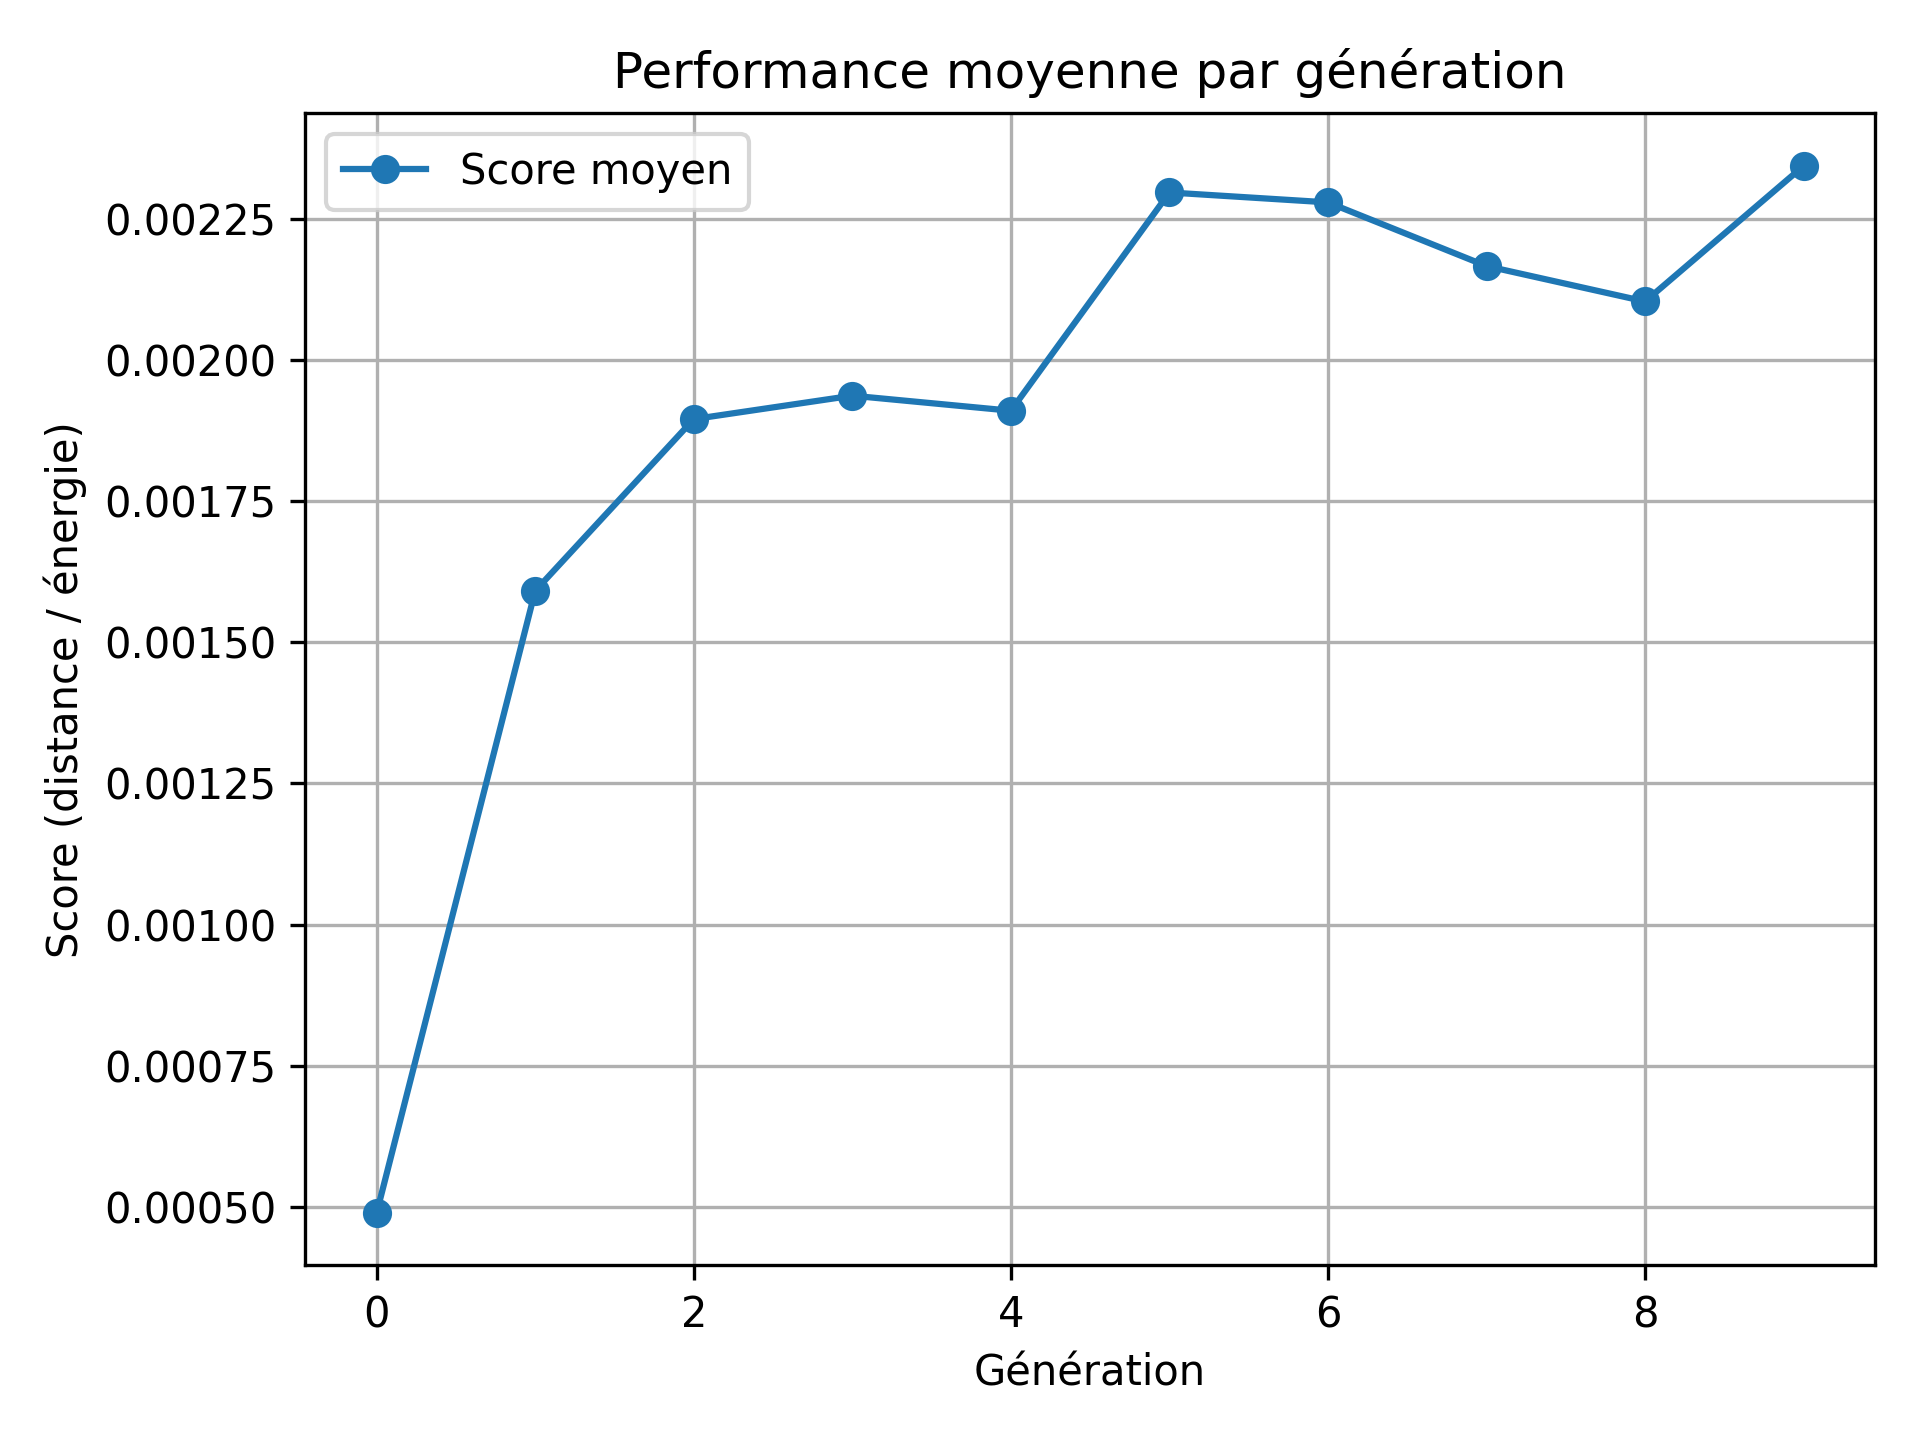
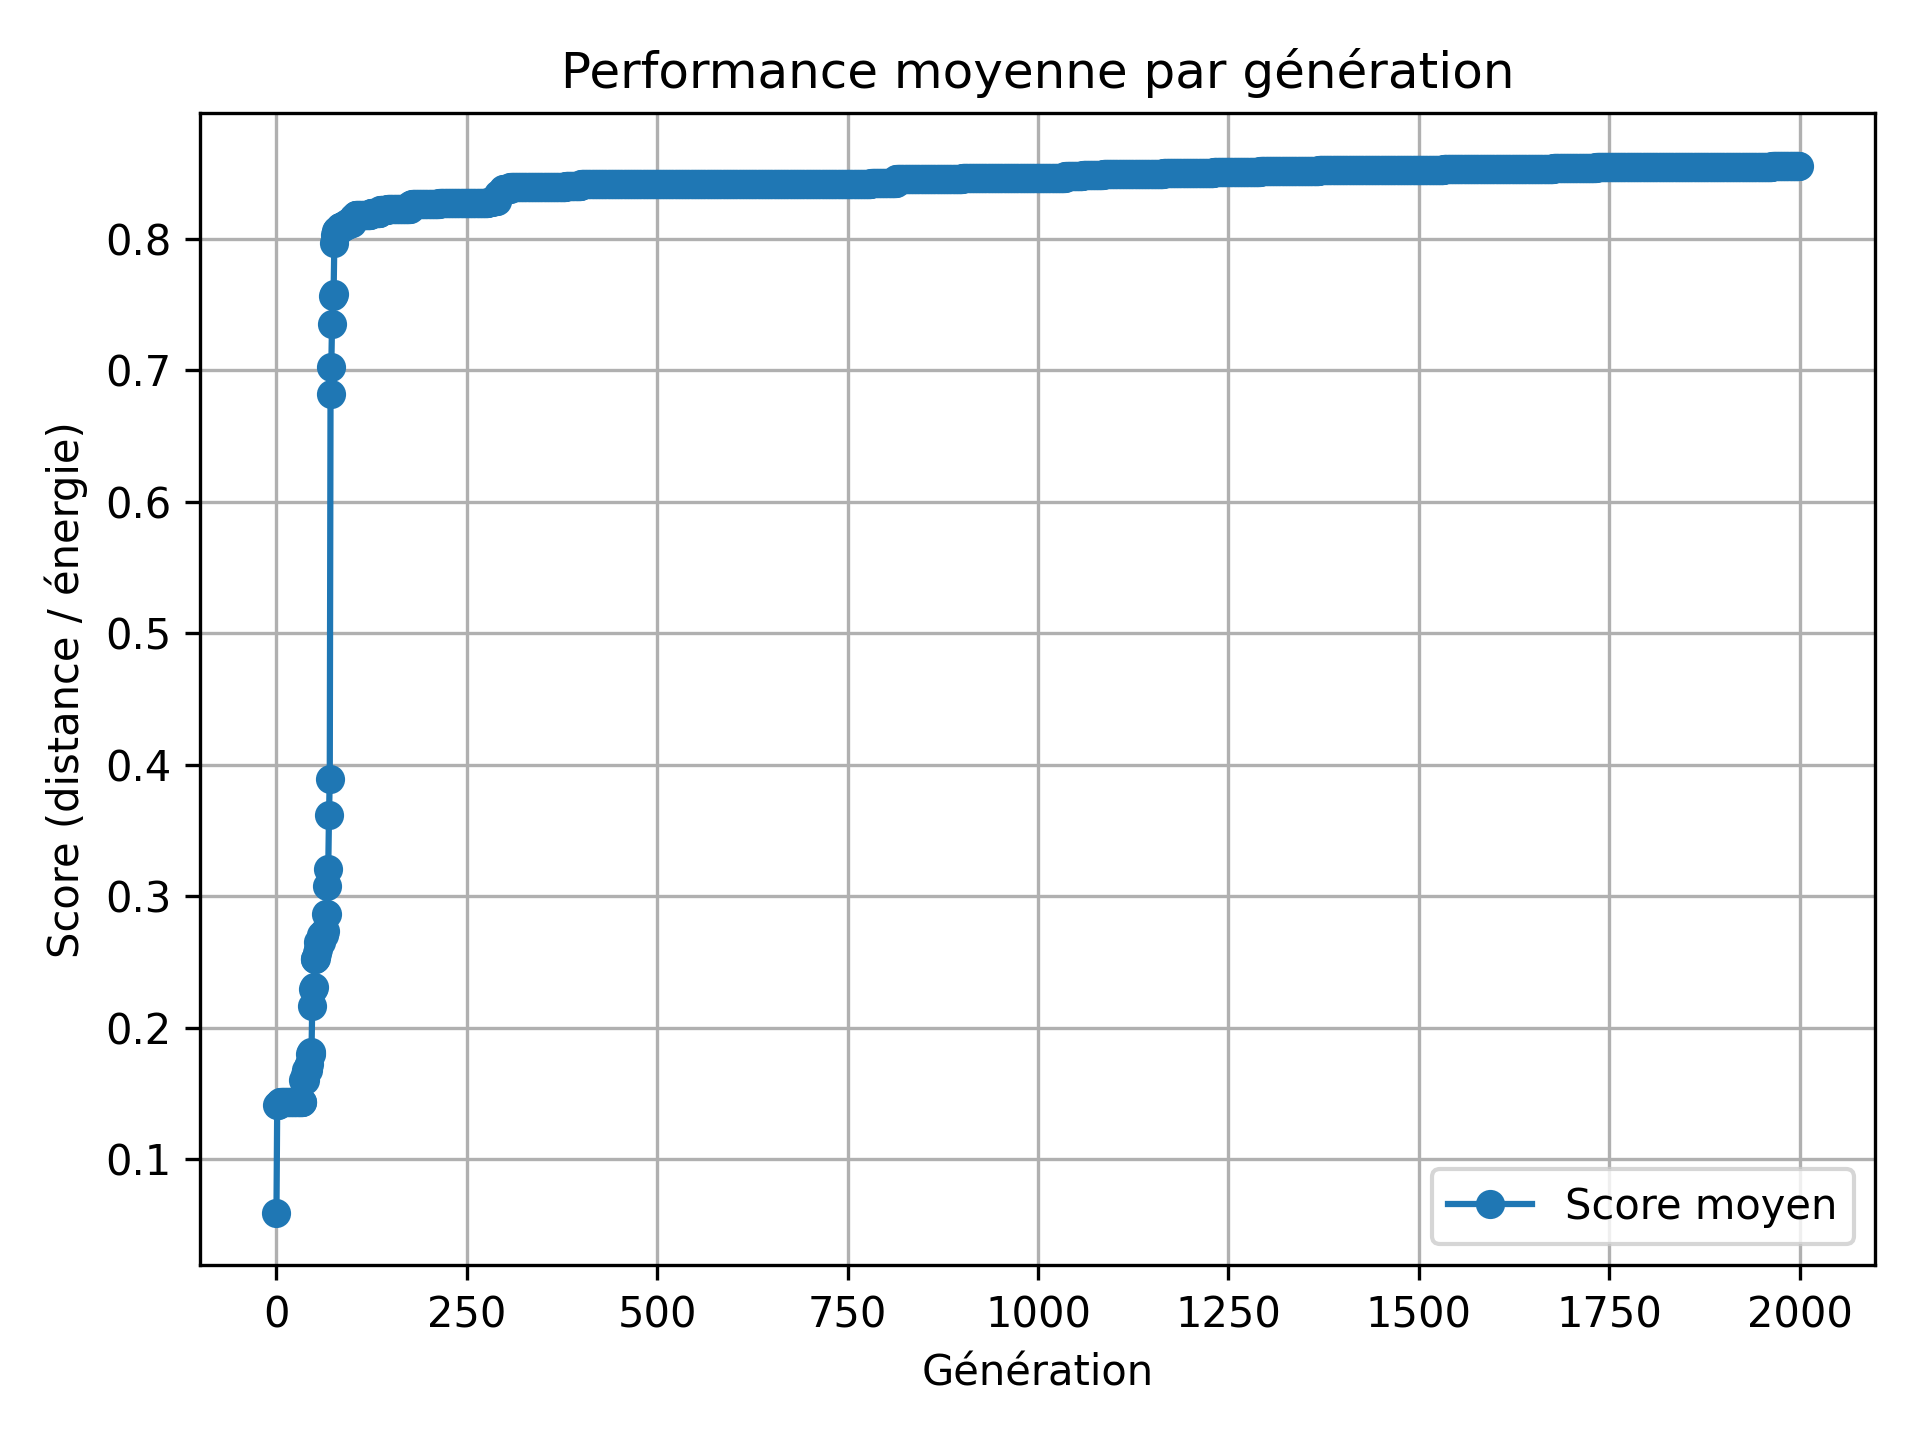
new genom

diff --git a/genome_utils.py b/genome_utils.py
@@ -37,14 +37,68 @@ def genome_to_creature(genome):
 
     return Creature(points, liens, muscles)
 
+import copy
+import random
+import numpy as np
+
 def mutate_genome(genome, mutation_strength=0.1):
     new_genome = copy.deepcopy(genome)
 
-    for m in new_genome["muscles"]:
-        # Mutation légère des fréquences, amplitudes, phases
-        m["freqs"] = [max(0.05, f + random.gauss(0, mutation_strength)) for f in m.get("freqs", [1.0])]
-        m["amps"] = [max(0.0, a + random.gauss(0, mutation_strength)) for a in m.get("amps", [1.0])]
-        m["phases"] = [(p + random.gauss(0, mutation_strength)) % (2 * np.pi) for p in m.get("phases", [0.0])]
-        m["intensite"] = max(0.1, m.get("intensite", 10.0) + random.gauss(0, mutation_strength * 5))
+    # === Mutation position points 0 et 2 (autour de p1) ===
+    if "points" in new_genome and len(new_genome["points"]) >= 3:
+        p1 = np.array(new_genome["points"][1])
+        l1 = np.linalg.norm(np.array(new_genome["points"][0]) - p1)
+        l2 = np.linalg.norm(np.array(new_genome["points"][2]) - p1)
+
+        theta0 = random.uniform(0, 2 * np.pi)
+        theta2 = random.uniform(0, 2 * np.pi)
+
+        new_genome["points"][0] = (p1 + l1 * np.array([np.cos(theta0), np.sin(theta0)])).tolist()
+        new_genome["points"][2] = (p1 + l2 * np.array([np.cos(theta2), np.sin(theta2)])).tolist()
+
+    # === Mutation des muscles (au plus UNE mutation par muscle) ===
+    for m in new_genome.get("muscles", []):
+        actions = []
+
+        if len(m.get("freqs", [])) > 0:
+            actions.append("mut_freq")
+        if len(m.get("amps", [])) > 0:
+            actions.append("mut_amp")
+        if len(m.get("phases", [])) > 0:
+            actions.append("mut_phase")
+        actions.append("mut_intensite")
+        if len(m.get("freqs", [])) > 1:
+            actions.append("remove")
+        if len(m.get("freqs", [])) < 6:
+            actions.append("add")
+
+        action = random.choice(actions)
+
+        if action == "mut_freq":
+            idx = random.randint(0, len(m["freqs"]) - 1)
+            m["freqs"][idx] = max(0.05, m["freqs"][idx] + random.gauss(0, mutation_strength))
+
+        elif action == "mut_amp":
+            idx = random.randint(0, len(m["amps"]) - 1)
+            m["amps"][idx] = max(0.0, m["amps"][idx] + random.gauss(0, mutation_strength))
+
+        elif action == "mut_phase":
+            idx = random.randint(0, len(m["phases"]) - 1)
+            m["phases"][idx] = (m["phases"][idx] + random.gauss(0, mutation_strength)) % (2 * np.pi)
+
+        elif action == "mut_intensite":
+            m["intensite"] = max(0.1, m.get("intensite", 10.0) + random.gauss(0, mutation_strength * 5))
+
+        elif action == "add":
+            m["freqs"].append(random.uniform(0.1, 2.0))
+            m["amps"].append(random.uniform(0.1, 2.0))
+            m["phases"].append(random.uniform(0, 2 * np.pi))
+
+        elif action == "remove":
+            idx = random.randint(0, len(m["freqs"]) - 1)
+            m["freqs"].pop(idx)
+            m["amps"].pop(idx)
+            m["phases"].pop(idx)
 
     return new_genome
+

diff --git a/evolution.py b/evolution.py
@@ -4,42 +4,31 @@ import copy
 
 def evolve_population(creatures, genomes, n_new, keep_fraction=0.1, mutation_strength=0.05, external_scores=None):
     """
-    Fait évoluer une population de génomes :
-    - sélectionne les meilleurs selon leur score
-    - garde certains parents inchangés
-    - génère des enfants par mutation
-
-    Args:
-        creatures: liste de créatures (non utilisé si external_scores est fourni)
-        genomes: liste de génomes
-        n_new: taille cible de la nouvelle population
-        keep_fraction: proportion de parents à garder
-        mutation_strength: intensité des mutations
-        external_scores: tableau de scores (si fourni)
-
-    Returns:
-        (nouvelle_liste_genomes, score_moyen)
+    Fait évoluer une population avec conservation stricte de certains individus :
+    - garde les meilleurs inchangés (élitisme)
+    - génère les autres via mutation
     """
+
     if external_scores is not None:
         scores = np.array(external_scores)
     else:
         scores = np.array([c.evaluate() for c in creatures])
 
     n_parents = max(1, int(len(genomes) * keep_fraction))
-    best_indices = np.argsort(scores)[-n_parents:]  # meilleurs scores = meilleurs individus
+    best_indices = np.argsort(scores)[-n_parents:]
 
     new_genomes = []
 
-    # === Étape 1 : garder les meilleurs inchangés ===
+    # === Étape 1 : Ajouter les parents tels quels (non mutés)
     for idx in best_indices:
-        new_genomes.append(copy.deepcopy(genomes[idx]))
+        new_genomes.append(copy.deepcopy(genomes[idx]))  # clone exact
 
-    # === Étape 2 : produire des mutants ===
+    # === Étape 2 : Ajouter des mutants
     while len(new_genomes) < n_new:
         parent_idx = np.random.choice(best_indices)
         parent_genome = genomes[parent_idx]
         child_genome = mutate_genome(parent_genome, mutation_strength=mutation_strength)
         new_genomes.append(child_genome)
 
-    moyenne = np.mean(scores)
+    moyenne = np.max(scores)
     return new_genomes, moyenne

diff --git a/simulate_population.py b/simulate_population.py
@@ -24,12 +24,12 @@ minimal_genome = {
     ]
 }
 
-n = 100
-dt = 0.0002
-steps = 10000
-generations = 10
+n = 200
+dt = 0.01
+steps = 5000
+generations = 2000
 keep_fraction = 0.1
-mutation_strength = 0.01
+mutation_strength = 0.05
 
 def simulate_creature_from_genome(genome):
     creature = genome_to_creature(genome)
